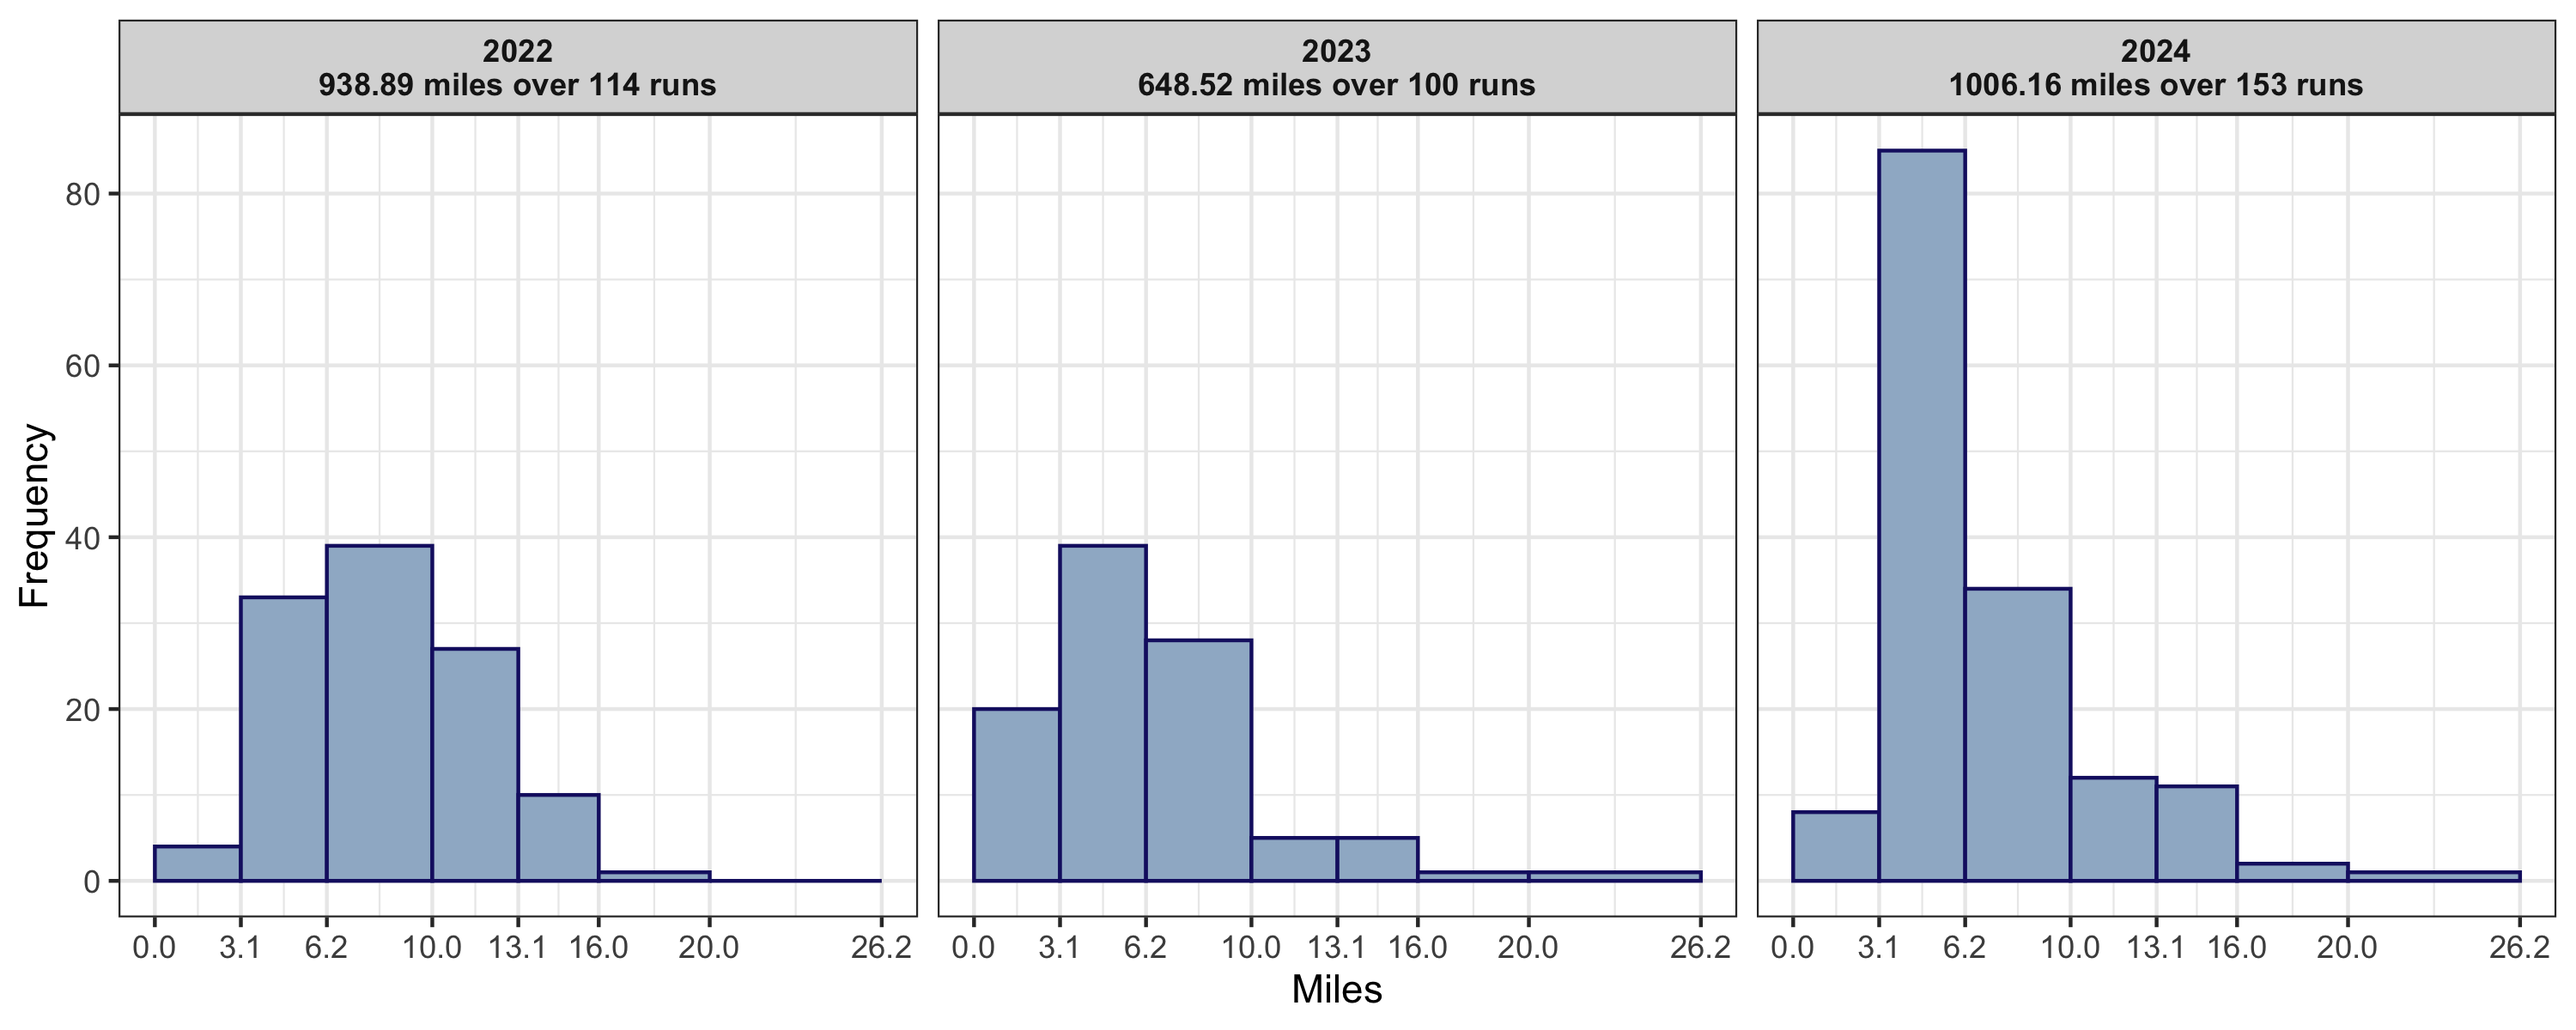
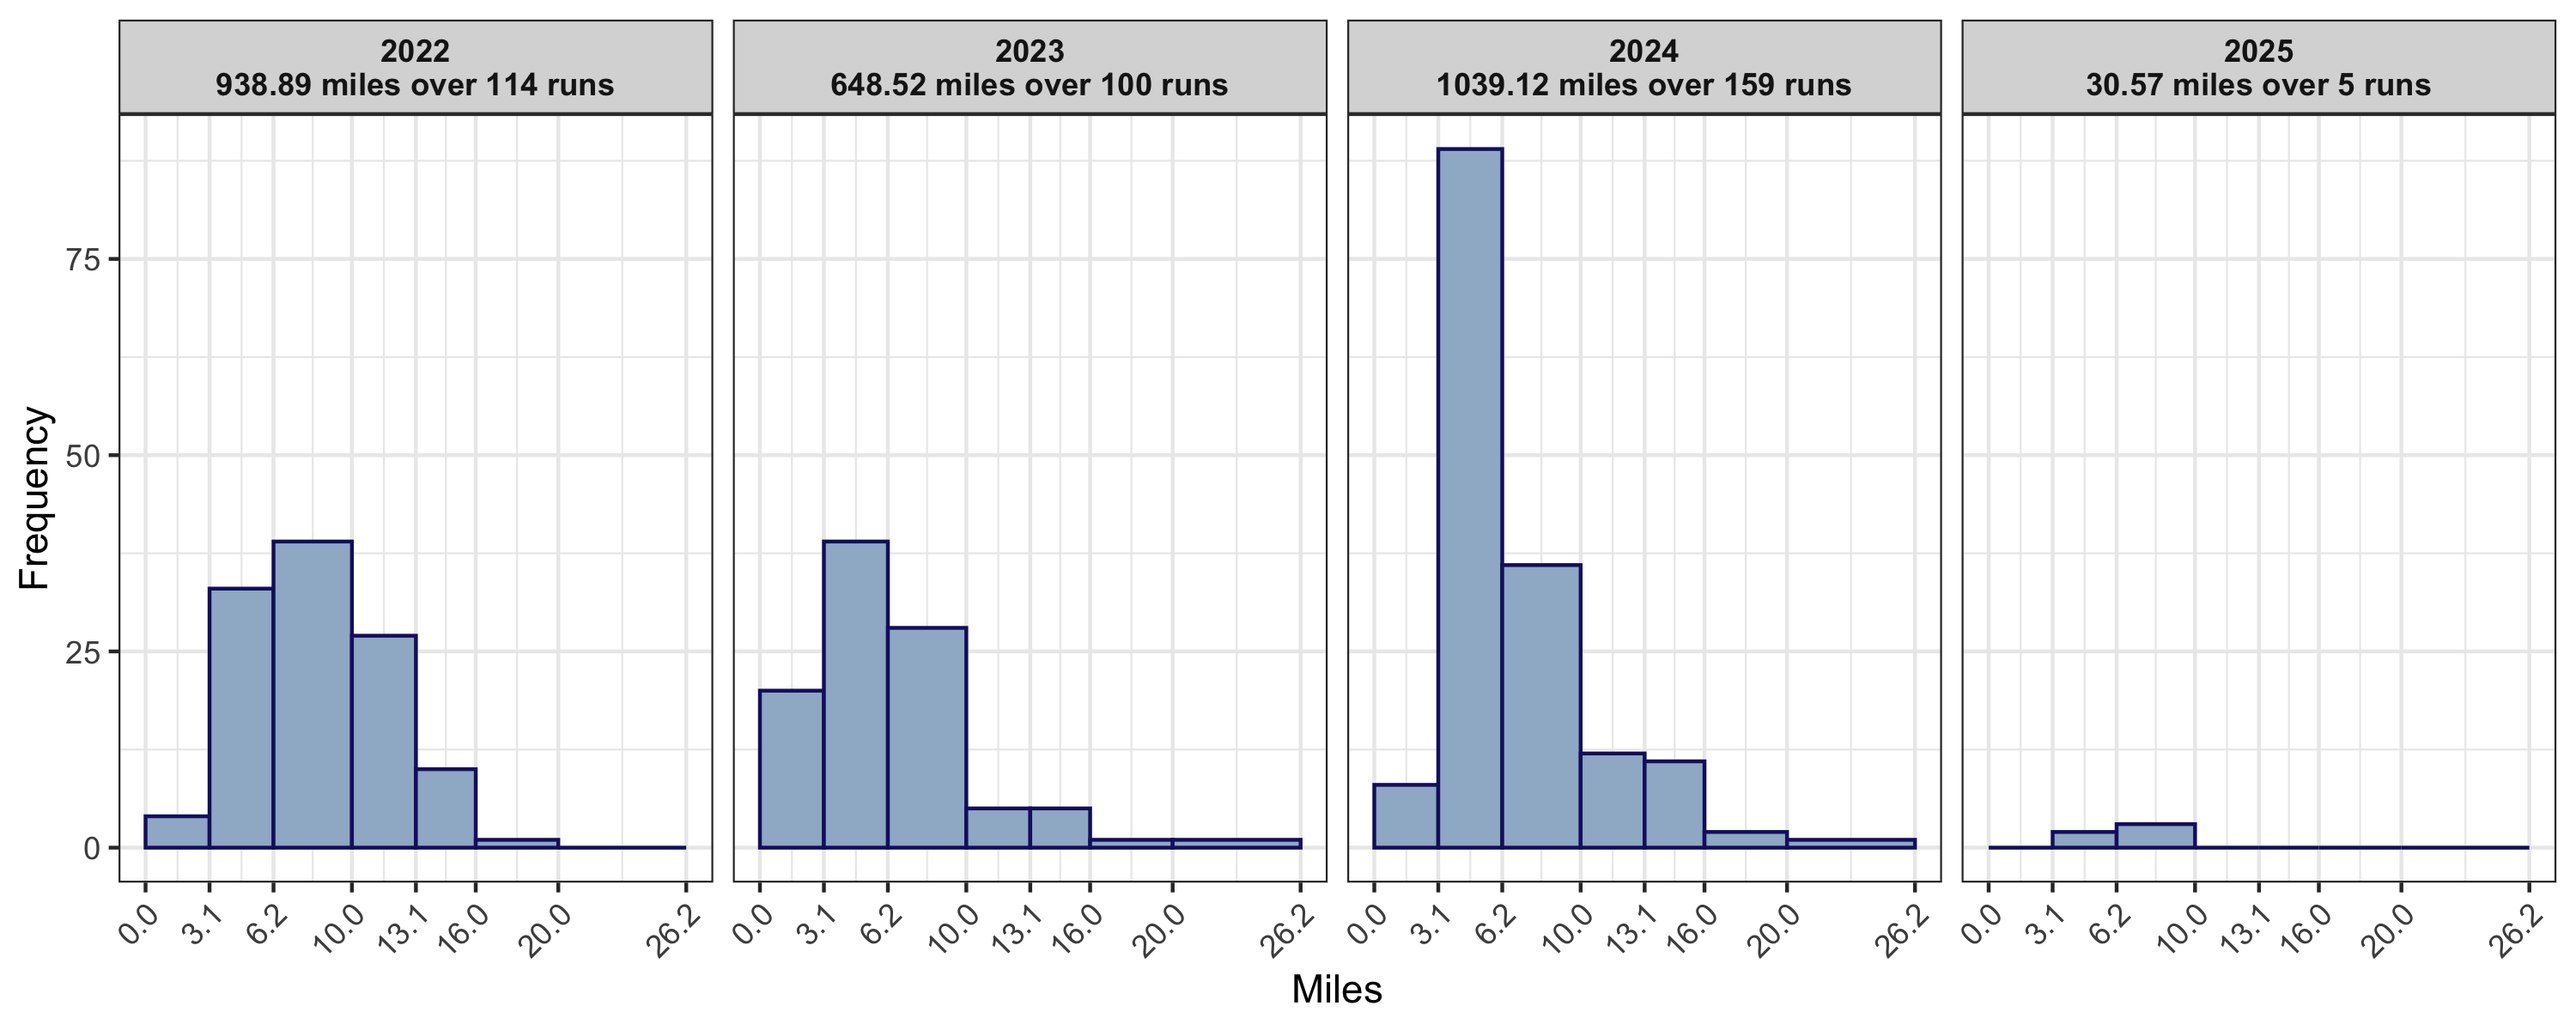
12/16/24 - 1/13/25

Changed region(s): [[0.0, 0.0, 0.992, 0.925]]

diff --git a/README.md b/README.md
@@ -33,7 +33,7 @@ runsPerYear <- table(runningData$Year)
 runningData$Year <- factor(runningData$Year, labels = paste(milesPerYear$Year, "\n", round(milesPerYear$Miles, 2), " miles over ", runsPerYear, " runs", sep = ""))
 
 breaks <- c(0, 3.1, 6.2, 10, 13.1, 16, 20, 26.2)
-ggplot(runningData[- grep("2021", runningData$Year),], aes(x = Miles)) + geom_histogram(color = "midnightblue", fill = "slategray3", breaks = breaks) + facet_grid(. ~ Year) + ylab("Frequency") + scale_x_continuous(breaks = breaks) + theme_bw() + theme(strip.text.x = element_text(face = "bold"))
+ggplot(runningData[- grep("2021", runningData$Year),], aes(x = Miles)) + geom_histogram(color = "midnightblue", fill = "slategray3", breaks = breaks) + facet_grid(. ~ Year) + ylab("Frequency") + scale_x_continuous(breaks = breaks) + theme_bw() + theme(strip.text.x = element_text(face = "bold"), axis.text.x = element_text(angle = 45, vjust = 1, hjust = 1))
 ```
 
 ![](Plots/README-Running-Plots-2-1.png)<!-- -->
@@ -46,7 +46,7 @@ Total miles since 11/29/21:
 sum(runningData$Miles)
 ```
 
-    ## [1] 2664.02
+    ## [1] 2727.55
 
 Average distance over last ten runs:
 
@@ -54,4 +54,4 @@ Average distance over last ten runs:
 mean(tail(runningData$Miles, 10))
 ```
 
-    ## [1] 5.799
+    ## [1] 5.977
